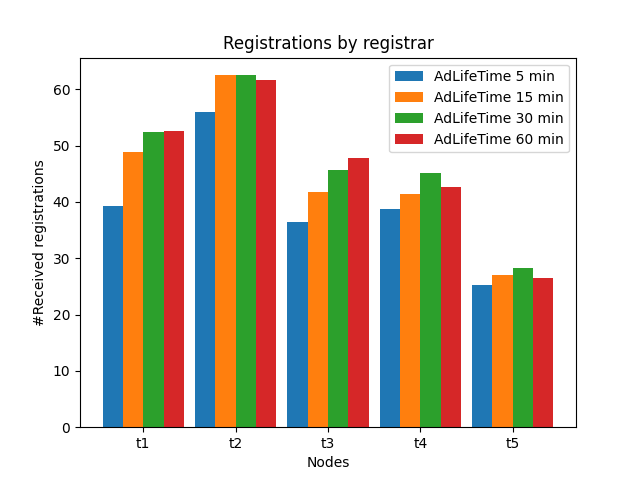
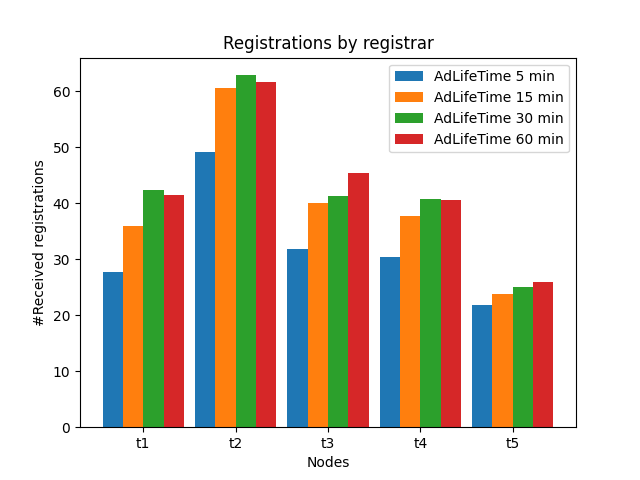
figures update

diff --git a/service-discovery/python/analyze_sergi.py b/service-discovery/python/analyze_sergi.py
@@ -1433,16 +1433,17 @@ if not os.path.exists(OUTDIR):
 
 print('Will read logs from', sys.argv[1:])
 print('Plots will be saved in ', OUTDIR);
+
 #labels = ['AdLifeTime 5 min','AdLifeTime 15 min','AdLifeTime 30 min','AdLifeTime 60 min']
 #labels = ['500 nodes','1000 nodes','5000 nodes','10000 nodes']
 #labels = ['0.5 AdLifeTime','1 AdLifeTime','1.5 AdLifeTime','2 AdLifeTime']
-#labels = ['Bucket size 3','Bucket size 5','Bucket Size 10','Bucket size 16']
+labels = ['Bucket size 3','Bucket size 5','Bucket Size 10','Bucket size 16']
 ##labels = ['No refresh','Refresh']
 #labels = ['5%','10%','20%']
 topiclabel = str(1)
 
 #labels = ['Filter','No filter']
-labels = ['1 IP','10 IP','50 IP']
+#labels = ['1 IP','10 IP','50 IP']
 #labels = ['old variant','new variant']
 analyzeRegistrations2(sys.argv[1:],labels)
 analyzeOperations(sys.argv[1:],labels)
@@ -1450,6 +1451,6 @@ analyzeRegistrantDistribution(sys.argv[1:],labels)
 analyzeActiveRegistrations(sys.argv[1:],labels)
 analyzeRegistrationTime(sys.argv[1:],labels)
 analyzeNumberOfMessages(sys.argv[1:],labels)
-analyzeEclipsedNodes(sys.argv[1:])
+#analyzeEclipsedNodes(sys.argv[1:])
 analyzeMessageReceivedByNodes(sys.argv[1:],labels) # message received by nodes
 analyzeStorageUtilisation(sys.argv[1:],labels)

diff --git a/service-discovery/src/main/java/peersim/kademlia/Discv5GlobalTopicTable.java b/service-discovery/src/main/java/peersim/kademlia/Discv5GlobalTopicTable.java
@@ -26,7 +26,7 @@ public class Discv5GlobalTopicTable extends Discv5TopicTable { // implements Top
     protected static final double ipModifierExp = 0.4;
     protected static final double idModifierExp =0.4;
     protected static final int occupancyPower = 4;
-    protected static final int baseMultiplier = 5;
+    protected static final int baseMultiplier = 30;
     
 	public Discv5GlobalTopicTable() {
         super();
